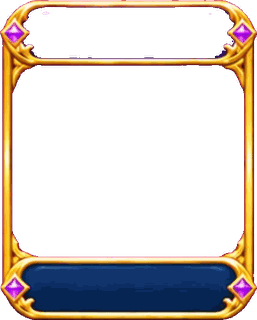
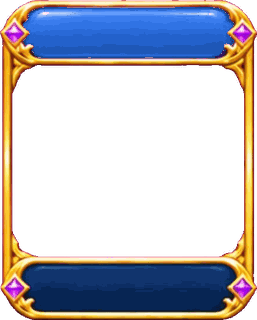
편성 화면에서 영웅 얼굴과 카드 틀 배치를 맞춤

Changed region(s): [[0.0934, 0.0, 0.9027, 0.1875]]

diff --git a/tools/fix_slot_defense.py b/tools/fix_slot_defense.py
@@ -1,0 +1,35 @@
+#!/usr/bin/env python3
+"""공격 자리의 빨간 띠를 파랗게 바꿔 방어 자리의 비어 있는 띠 안에 넣는다."""
+
+from colorsys import hsv_to_rgb, rgb_to_hsv
+from pathlib import Path
+
+from PIL import Image
+
+
+def main() -> None:
+    art_dir = Path(__file__).resolve().parents[1] / "assets" / "ui_menu"
+    attack = Image.open(art_dir / "slot_attack.png").convert("RGBA")
+    defense_path = art_dir / "slot_defense.png"
+    defense = Image.open(defense_path).convert("RGBA")
+    if attack.size != defense.size:
+        raise ValueError("공격·방어 자리 그림의 크기가 다릅니다.")
+
+    # 원본(257×320)의 위 띠 안에서만 채운다. 방어 틀의 금테와 보석 픽셀은 그대로 둔다.
+    for y in range(7, 62):
+        for x in range(18, 239):
+            if defense.getpixel((x, y))[3] >= 128:
+                continue
+            red, green, blue, alpha = attack.getpixel((x, y))
+            if alpha < 128:
+                continue
+            hue, saturation, value = rgb_to_hsv(red / 255, green / 255, blue / 255)
+            if 0.09 <= hue <= 0.93:
+                continue
+            color = hsv_to_rgb(0.605, 0.84 * saturation, value)
+            defense.putpixel((x, y), (*[round(channel * 255) for channel in color], 255))
+    defense.save(defense_path)
+
+
+if __name__ == "__main__":
+    main()

diff --git a/CLAUDE.md b/CLAUDE.md
@@ -67,6 +67,7 @@
 - 더 생긴 것: 수집 앨범(`Profile.claim_album`, economy.json album), 유물(`relics`, 내 파티 시작 보너스·랭크전 상대 강화 `rank_boost`), 홀짝 미니게임(`odd_even`), 주간 리그 보상·훈장(`Profile.settle_league`), 원정 보상(`Profile.claim_idle`, idle), 요일 이벤트(events.json의 weekdays).
 - 카드 뽑기·카드 덱(2026-11-18 사용자 요청): 아이템 카드 58종(기존 20 + 신규 13 + 2026-11-19 사용자 요청으로 ★ 10·★★ 10·★★★ 5 추가, 새 25장은 기존 효과 종류의 조합만 씀·그림은 주문서 `codex_jobs/job_cards2.md`를 사용자가 Codex에 압축 파일로 보내 받아 `tools/import_art.py`로 넣음. 2026-11-19 사용자 요청으로 등급 재설정: 명검 ★★→★, 군신의 가호·도둑 까치·깊은 망각·불굴 ★★★→★★(★ 23·★★ 26·★★★ 9). 등급이 바뀌어 넘친 저장 덱은 `Profile.fit_deck`이 넘친 카드만 뺀다(불러올 때·`battle_deck`))은 등급 grade 1=★ 일반·2=★★ 희귀·3=★★★ 전설(`data/cards.json`). 플레이어는 가진 카드(`profile["cards"]`)로 덱(`profile["deck"]`, economy.json의 card_deck: 2026-11-18 사용자 결정으로 15자리 = ★★★ 3·★★ 5·★ 7(per_grade), 최소 6장, 같은 카드 한 장, `Profile.deck_counts`)을 짜고, 판에서는 덱 카드만 섞어 뽑는다(`game.gd`의 `_next_card`, party의 deck. AI·친구 대전 2P는 덱 없이 모든 카드). 카드 뽑기는 economy.json의 card_gacha(무료 하루 1회·보석 1회/10회, 10회는 ★★ 이상 보장, ★★★ 보장 pity_3, 중복은 골드). 골드 뽑기(2026-11-18 사용자 요청): 영웅·카드 모두 골드로도 뽑을 수 있고 ★·★★만 나온다(economy.json의 summon.gold·card_gacha.gold, `Profile.summon`·`draw_cards`의 gold 인자, ★★★ 보장 횟수는 세지 않음, 확률표는 `Profile.roll_rates`). 화면은 상점 소환 탭 '골드 소환'·'카드 뽑기' 판의 '골드 뽑기'. 규칙 `Profile.draw_cards`·`toggle_deck`·`deck_error`·`battle_deck`. 화면 도우미 `scripts/ui/card_panels.gd`(CardPanels, 화면에 붙여 `init(app, 돌아갈 화면, 값)` 뒤 `build_list`·`build_deck`·`build_gacha`, 카드 모양 `card_tile`). 자리(2026-11-18 사용자 결정): 영웅 화면(로비 타일·화면 제목은 '편성') 왼쪽 판은 영웅 목록·카드 목록(`app.go("heroes", {"view": "cards"})`)·파티 편성·카드 편성(`{"view": "deck"}`, 2026-11-18 사용자 배치: 왼쪽은 등급별 덱 줄 전설 3·희귀 5·일반 7(카드 그림 칸, 줄마다 옆 스크롤, 빈칸은 `_empty_slot`), 오른쪽은 보유 카드 2칸 세로 스크롤·등급 거름. 2026-11-20: 덱에 없는 보유 카드는 정보 창에서 '적용'을 눌러 넣고, 덱에 든 카드는 양쪽 어디서 눌러도 바로 뺌(자동 사진 `09x_deck_card_info`). 칸 크기 `DECK_TILE`·`OWNED_TILE_HEIGHT`. 그림 부품 `assets/ui_menu/deck_slot_empty_1~3`(빈 자리)·`deck_row_frame_1~3`(덱 줄 판, 가운데만 늘림)·`deck_owned_frame`(보유 카드 판)은 2026-11-18 Codex 웹(크롬 chatgpt.com/codex, 한 장씩 새 채팅)으로 그려 `tools/import_deck.py <폴더>`로 넣었다. 그린 그림은 페이지의 data: 이미지를 a.download로 PC 다운로드 폴더에 받아 기기 연결로 가져왔다)·영웅 앨범·카드 앨범(창 `_open_card_album`, 등급별 모은 수 단계 보상 economy.json card_album, `Profile.claim_card_album`·`card_album_*`, 자동 사진 `09l_card_album`), 상점 왼쪽 판은 영웅 소환 바로 아래 '카드 뽑기'(`app.go("shop", {"tab": "cards"})`, 보석·골드 뽑기). 따로 있던 카드 화면은 없다. 자동 사진 `09k_cards_list`·`09f_cards_deck`·`09j_shop_gold`·`09g_cards_gacha`·`09i_cards_gold`·`09h_cards_result`. 신규 카드 그림(`assets/art/cards/<id>.jpg`)이 없으면 등급색 판에 카드 아이콘. 카드 칸 모양(2026-11-18 사용자 결정, GPT 시안 A안 '그림 가득'): `card_tile`은 그림이 칸을 가득 채우고 왼쪽 위 별 딱지·아래 어두운 반투명 띠에 이름(`Kit.squeeze_text`로 칸에 맞춤), 덱 표시는 오른쪽 위, 테두리는 등급색. 대전 시작 확인 창의 작은 카드도 같은 모양.
 - 파티 편성(2026-11-20): `scripts/ui/party_select.gd`에서 분류 다음에 등급을 골라 영웅을 거른다. 분류를 바꾸면 등급은 전체로 돌아간다. 영웅 정보 창에서 '적용'을 누르면 고른 자리에 배치한다(자동 사진 `09v_party_grade_filter`·`09w_party_hero_info`).
+- 편성 틀(2026-11-20): 파티 편성과 영웅 목록은 초상화를 위 기준으로 자르고, 방어 자리는 파란 띠를 쓴다. 카드 편성은 줄 높이에 맞춘 장식 여백과 보유 카드 스크롤 막대 자리를 확보한다(자동 사진 `09y_party_heroes_faces`·`09f_cards_deck`).
 - 분신 문지기 카드(2026-11-19 사용자 요청, ★★★ `phantom_warden`, 효과 `warden` amount 3): 상대 앞 amount칸(골에 가까운 길, 출발·골·관문 칸은 피해 당김, `game.warden_spot`)에 카드 주인의 ATTACK 영웅 분신 문지기를 세운다(`game.wardens` 칸 → owner·hero·name·dice(그 영웅 공격 주사위)·bonus(레벨 보너스), 맵 속성 영웅이면 +2 `warden_power`). 한 사람당 하나(다시 쓰면 옮겨 감). 상대는 그 칸에서 멈춰 싸운다(`_walk`의 `warden_blocks`, 도착 칸 `_resolve_tile`, 저절로 가는 이동이면 바로 `_battle_warden`). 이기면 문지기가 사라지고(추격 적용), 지면 거점으로 가고 문지기 주사위 1개 줄어듦. 주인은 그냥 지나감. 화면: 판 위 주인 색 마법진+그 영웅 모형 반투명(`board_view.gd`의 `_draw_warden`, 칸 글자 "문지기 N"), 전투 창은 영웅 모형, 사건 kind `warden`(서면 별빛, 사라지면 연기). 그림 `assets/art/cards/phantom_warden.jpg`는 Codex 웹(크롬 Browser 2 = 사용자 PC DESKTOP-1OL62D8)에서 그림. tests `_test_warden_card`, 자동 사진 `14w_warden`.
 - 주사위 꾸미기 그림(2026-11-18, 기획서는 프로젝트 문서 `claude/주사위영웅전_GPT그림활용기획.md` 1단계): 스킨마다 `assets/dice/<스킨 id>_<눈>.png`(180×200, 기본 주사위는 white, 황금은 gold)를 `GameData.skin_die_face(스킨, 눈)`으로 찾아 굴리는 큰 주사위(`big_dice.gd`)와 상점 미리보기(`die_preview.gd`)에 색 입히지 않고 그대로 그린다. 없으면 흰 주사위에 스킨 색을 입혀 대신한다. 주문서 `codex_work/job_dice.md`(분홍·보라 스킨은 초록 바탕), 넣는 도구 `tools/import_dice.py <out/dice>`(3×2 한 장 또는 `<스킨>_<눈>.png` 낱장, 바탕 자홍·초록 자동 판별).
 - 어빌리티 아이콘(2026-11-18, GPT 그림 활용 기획 2단계): 48개 스킬마다 금테 메달 아이콘 `assets/ability_icons/<어빌리티 id>.png`(256, 고리 색 빨강 공격·파랑 방어·초록 이동·보라 방해·금 지원). `GameData.ability_icon(id)`·`ability_icon_rect(id, 크기)`로 불러 대전 스킬 카드(초상화 귀퉁이 메달, 버튼 메타 badge)·스킬 설명 창·스킬 알림 띠·컷인(`cutin.gd`의 _icon)·영웅 상세 어빌리티 칸에 쓴다. ChatGPT 웹(크롬, 대화 '아이콘 제작')에서 4칸×3줄 판 4장으로 그려 `tools/import_ability_icons.py <판 폴더>`(sheet1~4.png, abilities.json 순서, 메달을 덩어리로 찾아 자름)로 넣었다.

diff --git a/codex_jobs/task_2.md b/codex_jobs/task_2.md
@@ -44,3 +44,8 @@ PR 전에 찍은 사진을 보고 확인한다.
 - 브랜치: `codex/task-2-formation-layout`, PR 제목 "편성 화면 배치: 영웅 얼굴, DEFENSE 띠, 카드 편성 틀 맞춤".
 
 ## 결과 (Codex가 채움)
+
+- 파티 편성과 영웅 목록의 초상화를 위 기준으로 자르고, DEFENSE 띠를 파랗게 채워 글자를 가운데에 맞췄다.
+- 전설·희귀·일반 카드 줄은 틀 안쪽으로 옮겼고, 보유 카드 판은 두 줄과 세로 스크롤 막대에 각각 자리를 뒀다.
+- Godot 4.7에서 직접 찍은 화면으로 영웅 48명과 가득 찬 덱을 확인했다. 자동 사진 `09y_party_heroes_faces`를 추가했고, `tests/run_tests.gd`는 통과했다.
+- 로비 새 소식과 영어·베트남어 번역을 추가하고 글꼴을 다시 만들었다.
